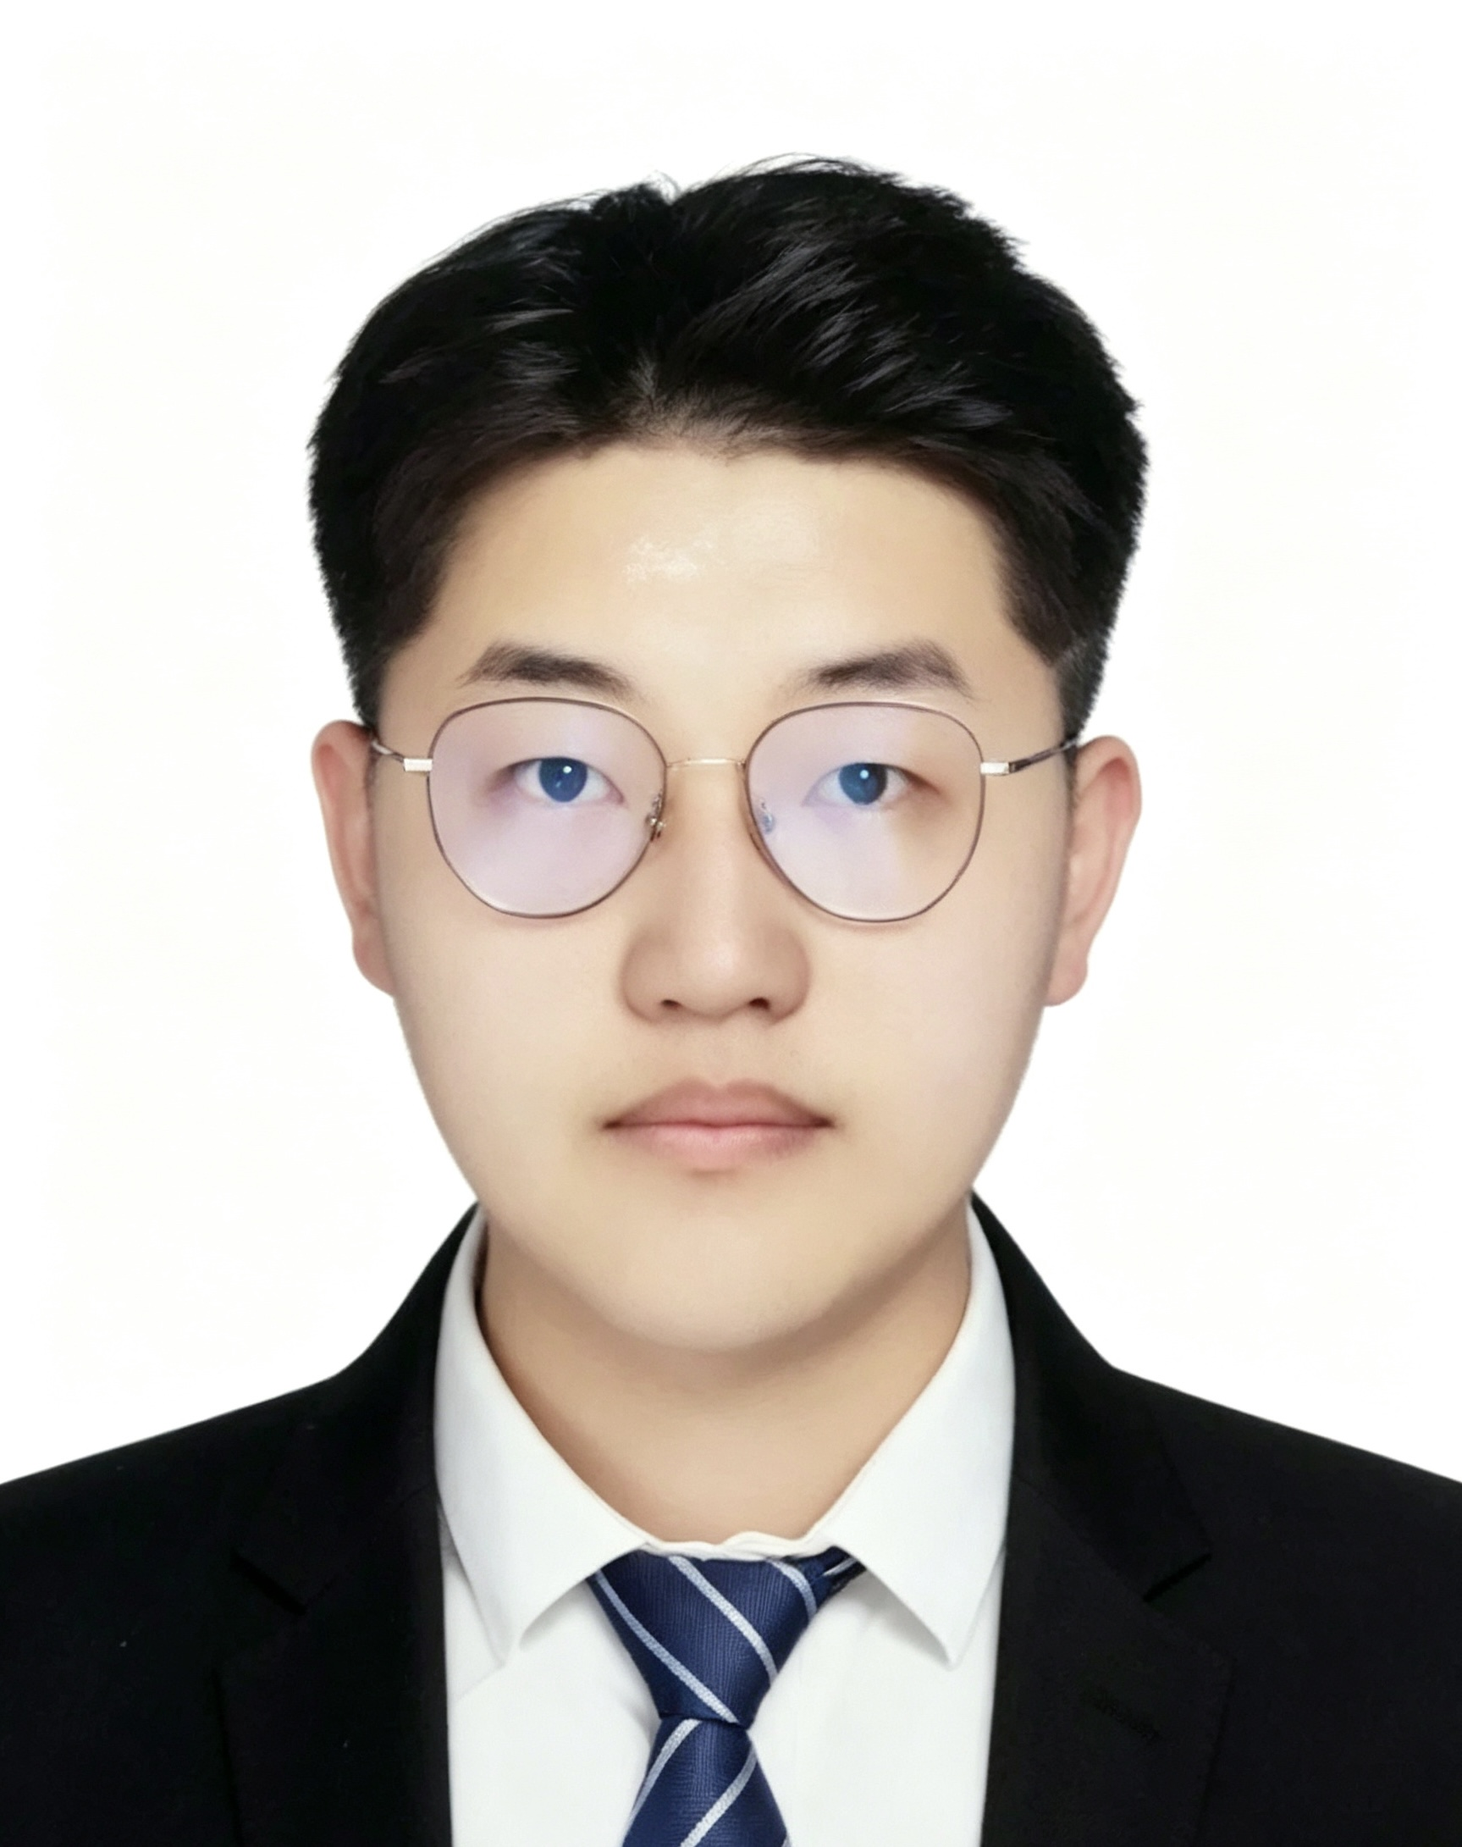
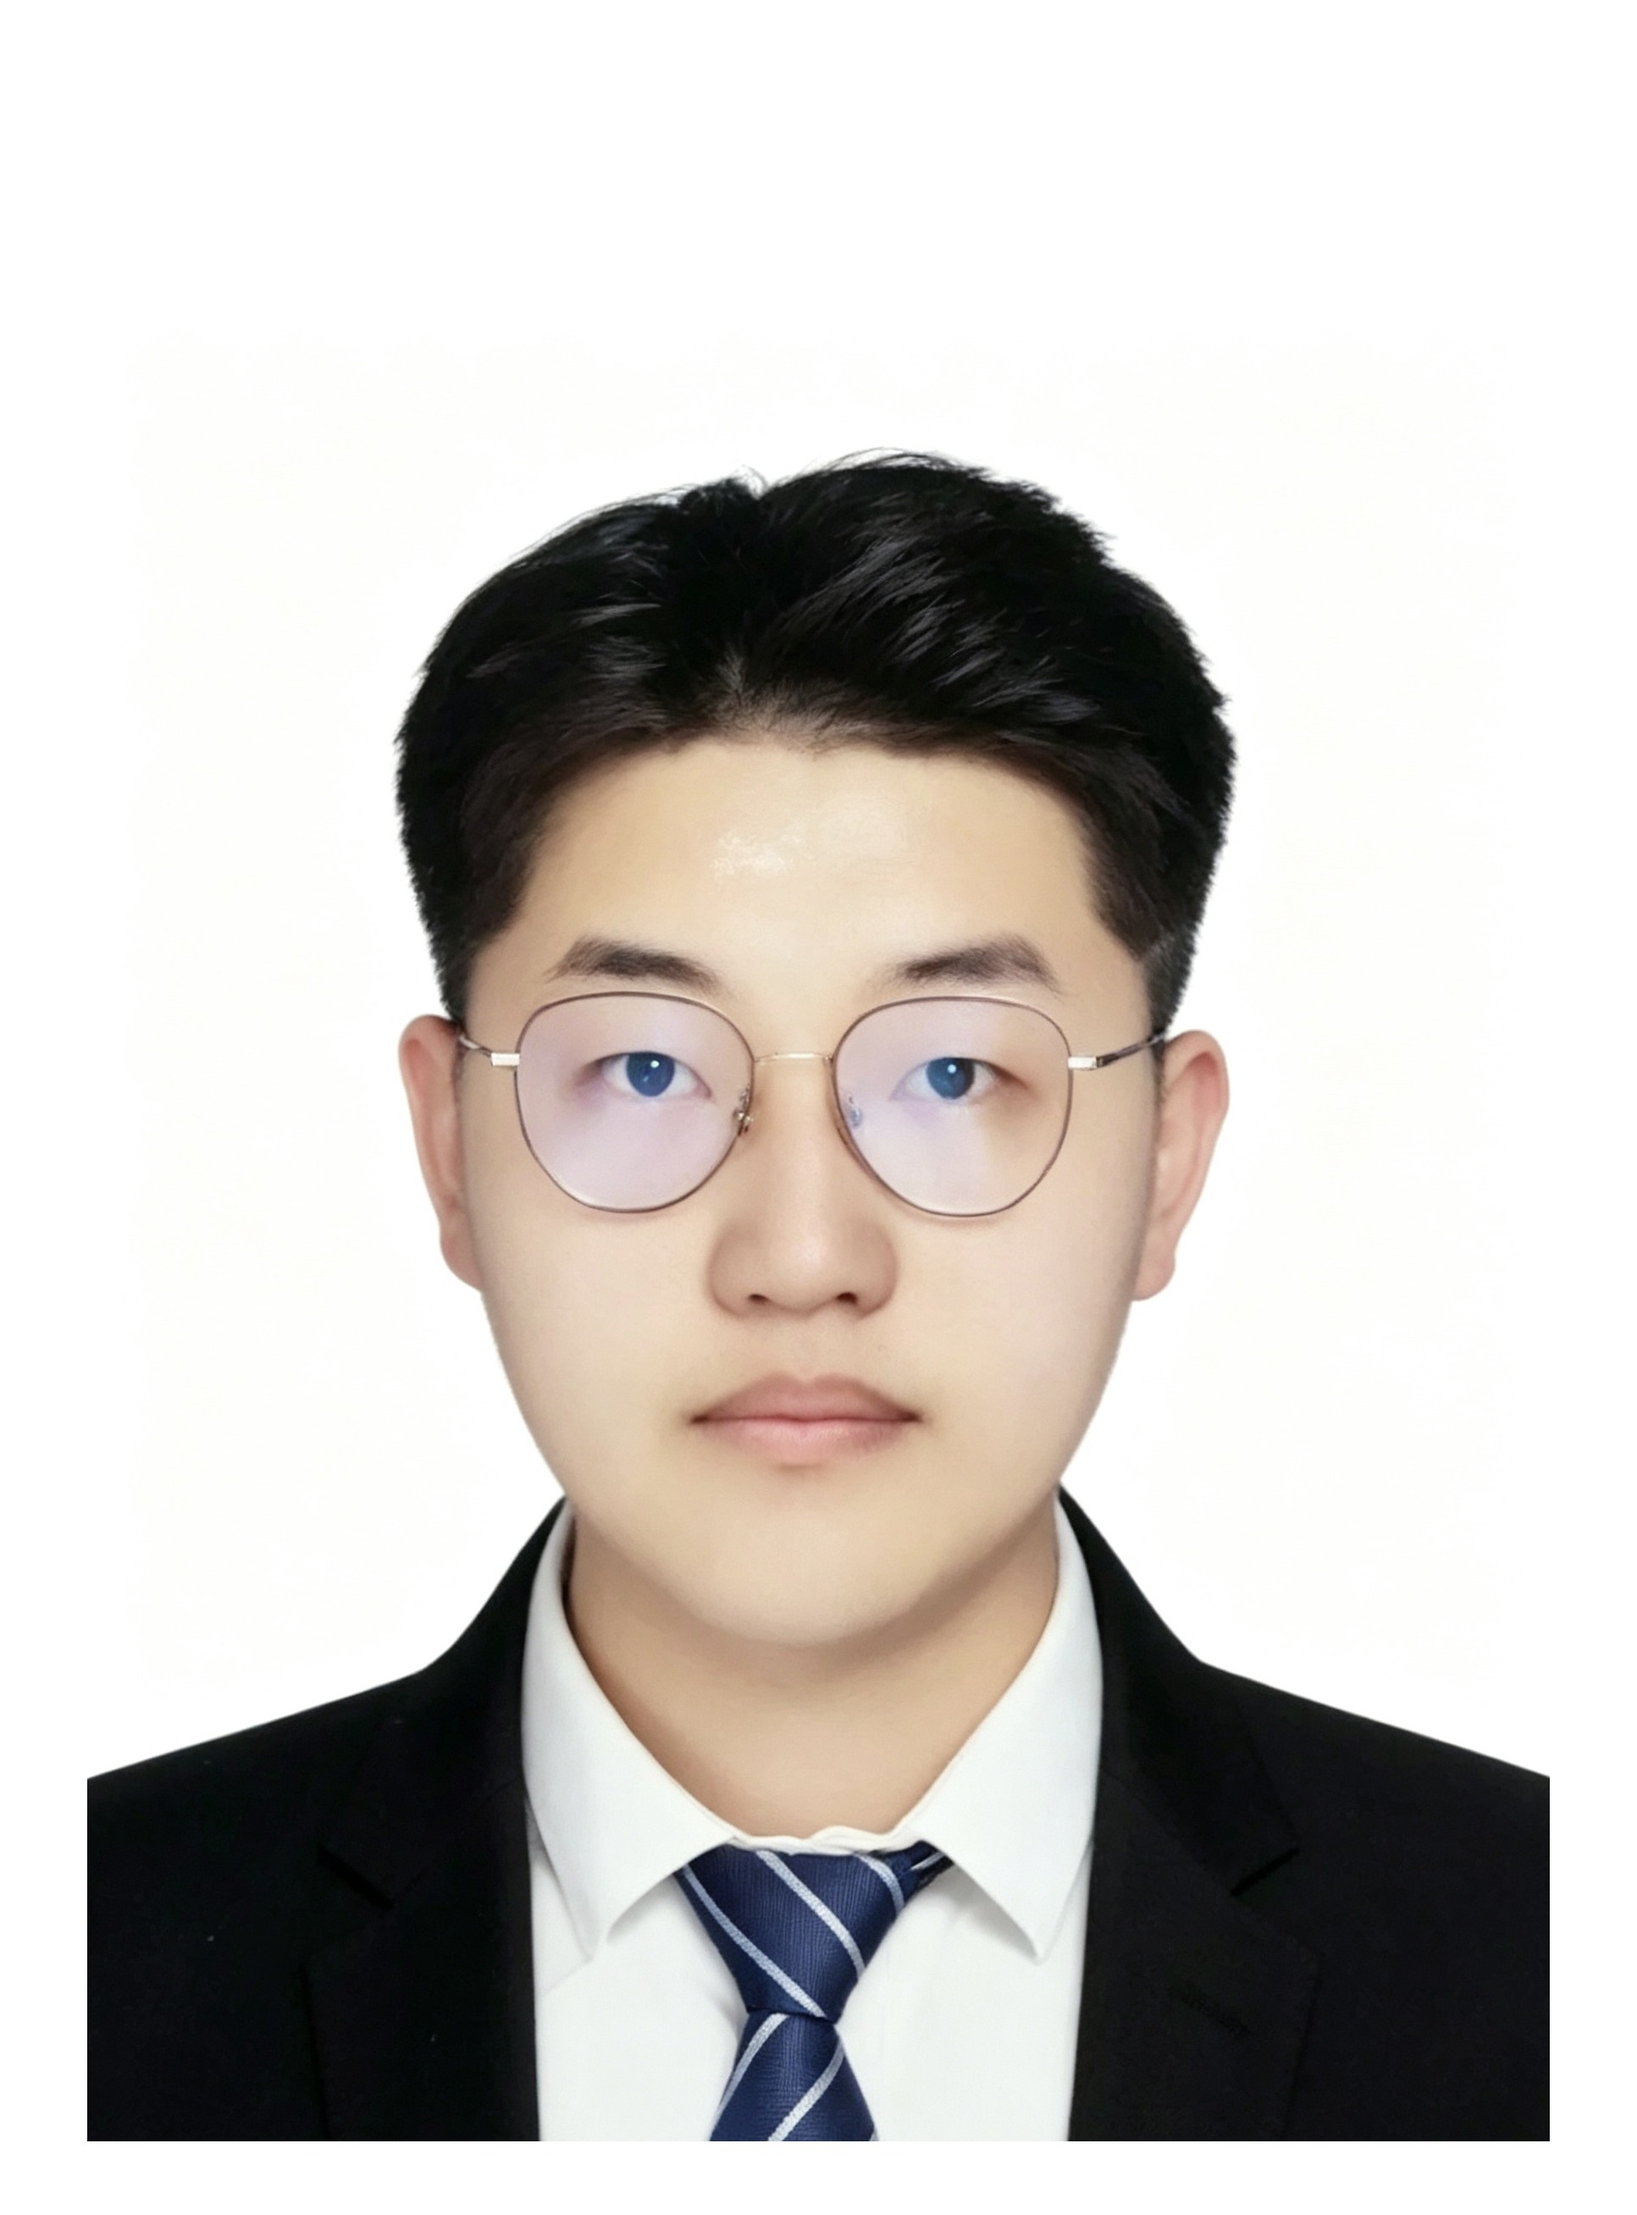
1

Changed region(s): [[0.1841, 0.0624, 0.7979, 0.6859], [0.0, 0.6236, 1.0, 1.0]]

diff --git a/layouts/partials/custom_head.html b/layouts/partials/custom_head.html
@@ -20,6 +20,13 @@
 @media (max-width: 575px) {
   .rh-grid { flex-wrap: wrap !important; }
 }
+#about .portrait,
+#about .avatar,
+.wg-about img.portrait,
+.wg-about .portrait {
+  object-fit: contain !important;
+  object-position: center 28% !important;
+}
 #experience pre,
 #experience .card-text,
 #experience .card-body {

diff --git a/assets/scss/custom.scss b/assets/scss/custom.scss
@@ -39,7 +39,14 @@
   }
 }
 
-#experience pre,
+#about .portrait,
+#about .avatar,
+#profile .portrait,
+.wg-about img.portrait,
+.wg-about .portrait {
+  object-fit: contain !important;
+  object-position: center 28% !important;
+}
 #experience .card-text,
 #experience .experience .card,
 #experience .card-body {
